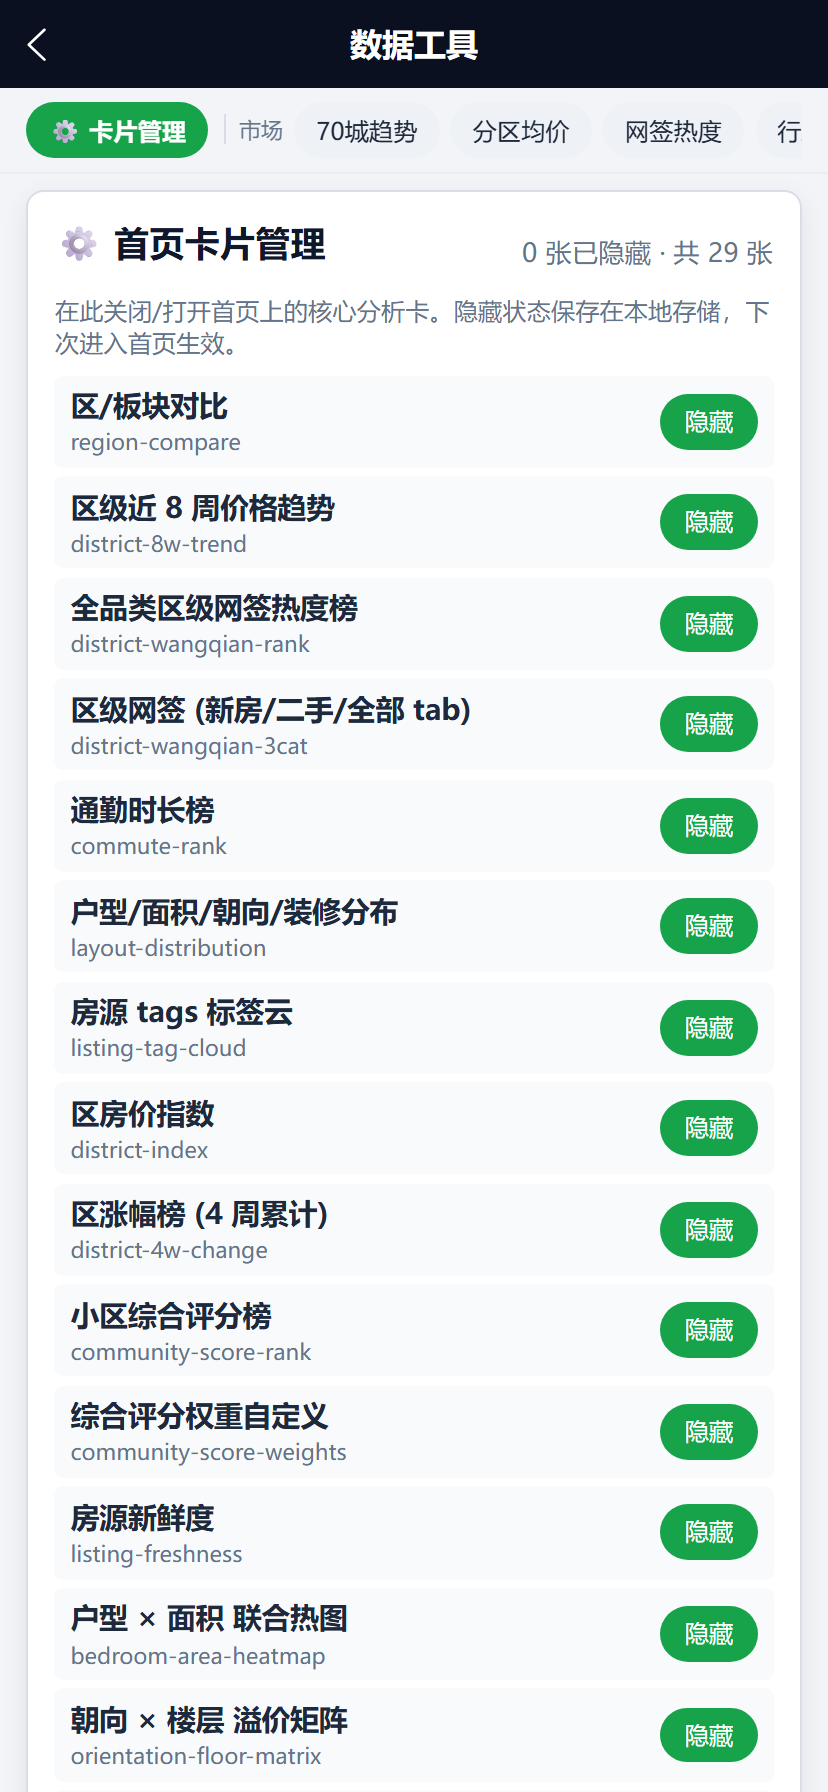
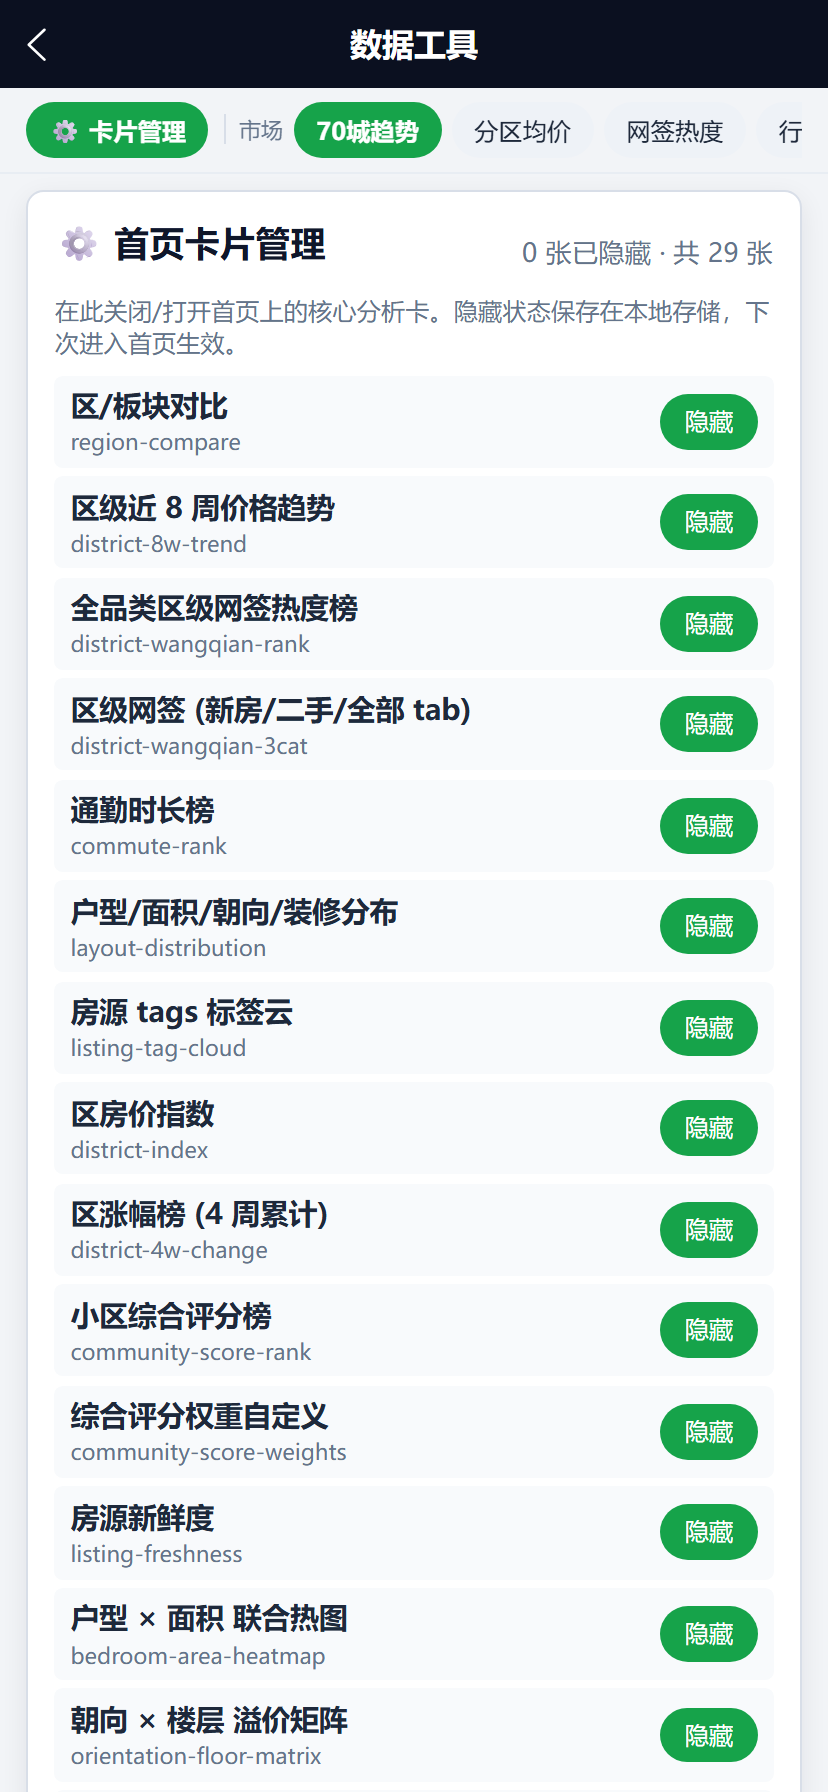
feat(data-tools): v1.123.4 导航滚动反选高亮
- chip 新增 dt-nav-chip--active 主色高亮（activeDtAnchor）
- H5 window scroll + rAF 节流，每次重查 17 锚点卡（适配 v-if），
  取「吸顶导航底+8px ~ 视口 60%」带状区最靠上的卡置为 active
- 点击 chip 即高亮，smooth scroll 中反选接管
- keep-alive：onShow 补挂监听，onHide/onUnmounted 摘除
- FEATURE_CATALOG F-DTOOLS-01 期望 +1
- ext smoke_data_tools_nav 加点击高亮 + 纯滚动反选断言（单跑 PASS）
- 验证：type-check 0 / extended 9/9 / core 13/13 / unit 1457 全绿

diff --git a/realty_app/src/pages/data-tools/data-tools.vue b/realty_app/src/pages/data-tools/data-tools.vue
@@ -23,6 +23,7 @@
                 v-for="it in g.items"
                 :key="it.anchor"
                 class="dt-nav-chip"
+                :class="{ 'dt-nav-chip--active': activeDtAnchor === it.anchor }"
                 size="mini"
                 hover-class="dt-nav-chip--hover"
                 :data-dt-nav-item="it.anchor"
@@ -1526,8 +1527,8 @@ import { resolvedThemeRef as realtyTheme } from "../../utils/theme";
  *  - v1.123.2 Batch 6：近 4 周二手网签热度榜 + 学区评分 Top 小区（dashboard v122 壳层隐藏的最后两张）。
  *  - 提供「设置入口」式导航：dashboard 入口卡 → 独立页 → 完整派生数据。
  */
-import { computed, ref, onMounted, watch } from "vue";
-import { onShow } from "@dcloudio/uni-app";
+import { computed, ref, onMounted, onUnmounted, nextTick, watch } from "vue";
+import { onShow, onHide } from "@dcloudio/uni-app";
 import { useAppStore } from "../../store/app";
 import * as store from "../../local/store";
 import { summarizeAdminDistrictByCity, type CityAdminDistrictSummary } from "../../local/adminDistrictRanking";
@@ -1658,6 +1659,7 @@ function scrollToDtCard(anchor: string) {
         (head ? (head as HTMLElement).offsetHeight : 0) -
         (nav ? (nav as HTMLElement).offsetHeight : 0) -
         8;
+      activeDtAnchor.value = anchor; // 点击即高亮，滚动反选随后接管
       window.scrollTo({ top: Math.max(0, top), behavior: "smooth" });
       return;
     }
@@ -1669,6 +1671,52 @@ function scrollToDtCard(anchor: string) {
     duration: 280,
     fail: () => uni.showToast({ title: "该卡片暂无数据", icon: "none" })
   });
+}
+
+// v1.123.4 滚动反选高亮：当前可视区（吸顶导航下方 ~ 视口 60% 带状区）内
+// 最靠上的卡对应 chip 高亮；H5 端用 window scroll + rAF 节流，其它端仅点击高亮。
+const activeDtAnchor = ref("");
+let _dtSpyRaf = 0;
+function updateDtActiveAnchor() {
+  if (typeof document === "undefined") return;
+  const head = document.querySelector("uni-page-head");
+  const nav = document.querySelector("[data-dt-nav]");
+  const topOffset =
+    (head ? (head as HTMLElement).offsetHeight : 0) +
+    (nav ? (nav as HTMLElement).offsetHeight : 0) +
+    8;
+  const bandBottom = window.innerHeight * 0.6;
+  let best: { anchor: string; top: number } | null = null;
+  for (const g of DT_NAV_GROUPS) {
+    for (const it of g.items) {
+      const el = document.querySelector(`[data-dt-${it.anchor}]`);
+      if (!el) continue;
+      const r = el.getBoundingClientRect();
+      if (r.bottom <= topOffset || r.top >= bandBottom) continue;
+      if (!best || r.top < best.top) best = { anchor: it.anchor, top: r.top };
+    }
+  }
+  if (best) activeDtAnchor.value = best.anchor;
+}
+function onDtScroll() {
+  if (_dtSpyRaf) return;
+  _dtSpyRaf = requestAnimationFrame(() => {
+    _dtSpyRaf = 0;
+    updateDtActiveAnchor();
+  });
+}
+function setupDtScrollSpy() {
+  if (typeof window === "undefined") return;
+  window.addEventListener("scroll", onDtScroll, { passive: true });
+  nextTick(updateDtActiveAnchor);
+}
+function teardownDtScrollSpy() {
+  if (typeof window === "undefined") return;
+  window.removeEventListener("scroll", onDtScroll);
+  if (_dtSpyRaf) {
+    cancelAnimationFrame(_dtSpyRaf);
+    _dtSpyRaf = 0;
+  }
 }
 
 // v1.121.143 Batch 5: feature_premium (迁移自 dashboard)
@@ -2305,6 +2353,7 @@ onMounted(async () => {
   await reloadWangqianRank();
   await reloadSchoolPremiumCommunity();
   _lastDtCityId = app.cityId;
+  setupDtScrollSpy();
 });
 
 onShow(async () => {
@@ -2317,6 +2366,16 @@ onShow(async () => {
     await reloadSchoolPremiumCommunity();
   }
   _lastDtCityId = app.cityId;
+  // keep-alive 返回时不重跑 onMounted：滚动反选监听在 onHide 摘除后这里补挂
+  setupDtScrollSpy();
+});
+
+onHide(() => {
+  teardownDtScrollSpy();
+});
+
+onUnmounted(() => {
+  teardownDtScrollSpy();
 });
 </script>
 
@@ -2422,6 +2481,11 @@ onShow(async () => {
   border: none;
 }
 .dt-nav-chip--tool {
+  background: var(--color-primary);
+  color: var(--color-primary-text);
+  font-weight: 600;
+}
+.dt-nav-chip--active {
   background: var(--color-primary);
   color: var(--color-primary-text);
   font-weight: 600;

diff --git a/realty_app/src/config.ts b/realty_app/src/config.ts
@@ -12,7 +12,7 @@ export const DEFAULT_API_BASE_URL = "http://localhost:8000";
 
 export const APP_NAME = "Realty App";
 // 与 src/manifest.json 的 versionName 同步；CI 出包时会自动覆写
-export const APP_VERSION = "1.123.3";
+export const APP_VERSION = "1.123.4";
 
 export const STORAGE_KEYS = {
   apiBaseUrl: "realty_app.apiBaseUrl",

diff --git a/realty_app/README.md b/realty_app/README.md
@@ -10,6 +10,7 @@
 
 | 版本 | 发布日期 | 说明 |
 |------|----------|------|
+| v1.123.4 | 2026-11-03 | 数据工具页导航滚动反选高亮：v1.123.3 的锚点导航缺「当前位置」反馈 → chip 新增 `dt-nav-chip--active` 主色高亮；H5 端 window scroll + rAF 节流，每次重查 17 个锚点卡（适配 v-if 动态渲染），取「吸顶导航底+8px ~ 视口 60%」带状区最靠上的卡置为 active；点击 chip 即高亮、smooth scroll 中反选接管；keep-alive 场景 onShow 补挂监听、onHide/onUnmounted 摘除（避免其它页白跑）；FEATURE_CATALOG F-DTOOLS-01 期望 +1，ext `smoke_data_tools_nav` 新增点击高亮 + 纯滚动反选真实断言（versionCode 339） |
 | v1.123.3 | 2026-11-03 | 数据工具页锚点分组导航：17 张 `[data-dt-*]` 卡（Batch 1-6 迁入 16 张 + 行政区划）页面过长难定位 → 页头下新增吸顶横滚导航 `[data-dt-nav]`，按「市场/交通/学区/挂牌」四组 chip + ⚙ 卡片管理，点击平滑滚动到对应卡；吸顶用 `top: var(--window-top)` 让出 uni-page-head；滚动定位自算 scrollTop（实测 uni-h5 的 `pageScrollTo` 不透传 `offset`），扣除 page-head + 吸顶导航高度 + 8px 呼吸位，卡顶不被遮挡；目标卡无数据（v-if 未渲染）时 toast 提示不静默失败；FEATURE_CATALOG 新增 F-DTOOLS-01，ext `smoke_data_tools_nav` 真实验证吸顶可见 + 点击滚动 + 卡顶让位（versionCode 338） |
 | v1.123.2 | 2026-11-03 | 首页瘦身收官：dashboard v122 壳层隐藏的最后两张卡正式迁入数据工具页 Batch 6——「近 4 周二手网签热度榜」（`[data-dt-wangqian-rank]`）+「学区评分 Top 小区」含区过滤/最低评分/排序控件（`[data-dt-school-top]`），dashboard 原卡模板与孤儿逻辑（sp* refs/watch、`wangqianPct`、4 个派生 computed、`.spc-*` 样式、失效 ADVANCED_CARDS 条目）全部删除，`hero 市场脉搏` 的网签套数指标保留；卡片管理清单同步划掉两卡（16/16=100%）；两个 e2e（`smoke_school_community`/`smoke_wangqian_heatmap`）从「attached 断言+强制取消隐藏截图」升级为「data-tools 页 visible 真实可见」断言；4 处 buildIntegrity 契约 + 1 处 data-tab 预算契约同步指向新位置；FEATURE_CATALOG F-DASH-06/F-DASH-08 已登记（versionCode 337） |
 | v1.123.1 | 2026-11-03 | 修地图找房 legend 文案回退：v0.27.0 起低缩放按密度过滤（仅保留挂牌较多小区）的逻辑一直在跑，但 legend 说明文案在某次改写中丢失，用户无法发现该行为 → 恢复「缩小到城市级时按密度过滤，放大后恢复」说明；顺手修 extended e2e 两个硬编码 `127.0.0.1:5175` 的脚本（`smoke_community_metrics`/`smoke_listing_minidim` 在 run_suite 5174 下永远 CONNECTION_REFUSED，改走 `REALTY_E2E_BASE_URL`），并补 stats70 过滤框交互 e2e（收窄/名次保持/空态/清空，挂 extended）（versionCode 336） |

diff --git a/realty_app/changelog/2026-11-03-v1.123.4-数据工具导航滚动反选高亮.md b/realty_app/changelog/2026-11-03-v1.123.4-数据工具导航滚动反选高亮.md
@@ -1,0 +1,32 @@
+# v1.123.4（versionCode 339）· 数据工具导航滚动反选高亮
+
+日期：2026-11-03
+
+## 背景
+
+v1.123.3 给数据工具页加了锚点分组导航，但滚动时 chip 没有「当前位置」反馈：用户滑到页面中段后，导航条上看不出自己正在看哪一组哪张卡。上一轮建议第 3 条：滚动反选高亮。
+
+## 变更
+
+### data-tools.vue
+
+- **状态**：新增 `activeDtAnchor` ref；模板 chip 绑 `:class="{ 'dt-nav-chip--active': activeDtAnchor === it.anchor }"`。
+- **反选逻辑**（H5 端，`typeof document/window` 守卫）：
+  - `updateDtActiveAnchor()`：每次重新 `querySelector` 17 个锚点卡（卡随数据/城市 v-if 动态增删，不缓存元素），取「吸顶导航底 +8px ~ 视口 60%」带状区内 `top` 最小的卡 → 置为 active；
+  - `window` scroll 监听 + `requestAnimationFrame` 节流（`onDtScroll`），被动监听不阻塞滚动；
+  - 点击 chip 时立即置 active（`scrollToDtCard` 内），smooth scroll 过程中反选自然接管。
+- **生命周期**：`onMounted`（数据加载完）与 `onShow` 各调 `setupDtScrollSpy()`（keep-alive 从其它页返回时不重跑 onMounted，须补挂；`addEventListener` 同参去重，双挂安全）；`onHide` / `onUnmounted` 摘除监听并 cancel 未决 rAF，避免在其它页白跑 17 次 querySelector/帧。
+- **样式**：`.dt-nav-chip--active` 复用 `--color-primary` / `--color-primary-text`（与 ⚙ 卡片管理 chip 同款主色），深浅主题自适应。
+
+### 文档 / 测试
+
+- FEATURE_CATALOG **F-DTOOLS-01** 期望补第 4 条（滚动反选高亮 + keep-alive 返回仍生效），不期望与自动化口径同步更新。
+- ext `smoke_data_tools_nav.mjs` 扩展：点 chip 后断言该 chip 带 active class；新增「纯滚动反选」用例——不点 chip，直接 `window.scrollTo` 到「区情画像」卡，断言 `[data-dt-nav-item="district-meta"]` 自动获得 active class，且其它 chip 不同时持 active。
+
+## 验证
+
+- `npm run type-check` 0 错误
+- ext `smoke_data_tools_nav.mjs` 单跑 PASS（点击高亮 + 纯滚动反选均真实断言）
+- extended 全绿、core 全绿无回归
+- `npm test` 全绿
+- 线上 CI tests + build 双 success

diff --git a/realty_app/docs/FEATURE_CATALOG.md b/realty_app/docs/FEATURE_CATALOG.md
@@ -575,9 +575,10 @@
 1. （U）导航吸顶于 `uni-page-head` 下方（`top: var(--window-top)`），滚动不丢失  
 2. （F）chip 按「市场 / 交通 / 学区 / 挂牌」四组排列 + ⚙ 卡片管理；点击平滑滚动到对应 `[data-dt-*]` 卡，卡顶不被吸顶导航遮挡（让出导航高度 + 8px）  
 3. （F）目标卡无数据（v-if 未渲染）时 toast「该卡片暂无数据」，不静默失败  
+4. （U, F）v1.123.4 起滚动反选：可视带状区（导航下方 ~ 视口 60%）最靠上的卡对应 chip 高亮（`dt-nav-chip--active`）；点击 chip 即高亮，纯滚动也跟随；keep-alive 返回（onShow）后仍生效  
 
-**不期望**：chip 顺序与卡片语义分组错乱；滚动后卡顶被吸顶导航/uni-page-head 盖住。  
-**自动化**：ext `smoke_data_tools_nav.mjs`（吸顶可见 + 点击 chip 滚动 + 卡顶让位断言）  
+**不期望**：chip 顺序与卡片语义分组错乱；滚动后卡顶被吸顶导航/uni-page-head 盖住；滚动时无当前位置高亮或高亮与实际可视卡不符。  
+**自动化**：ext `smoke_data_tools_nav.mjs`（吸顶可见 + 点击 chip 滚动 + 卡顶让位断言 + 点击/纯滚动 active 反选断言）  
 **手工**：数据工具页点「网签热度」chip，页面滚到热度榜且标题完整可见。
 
 ---
